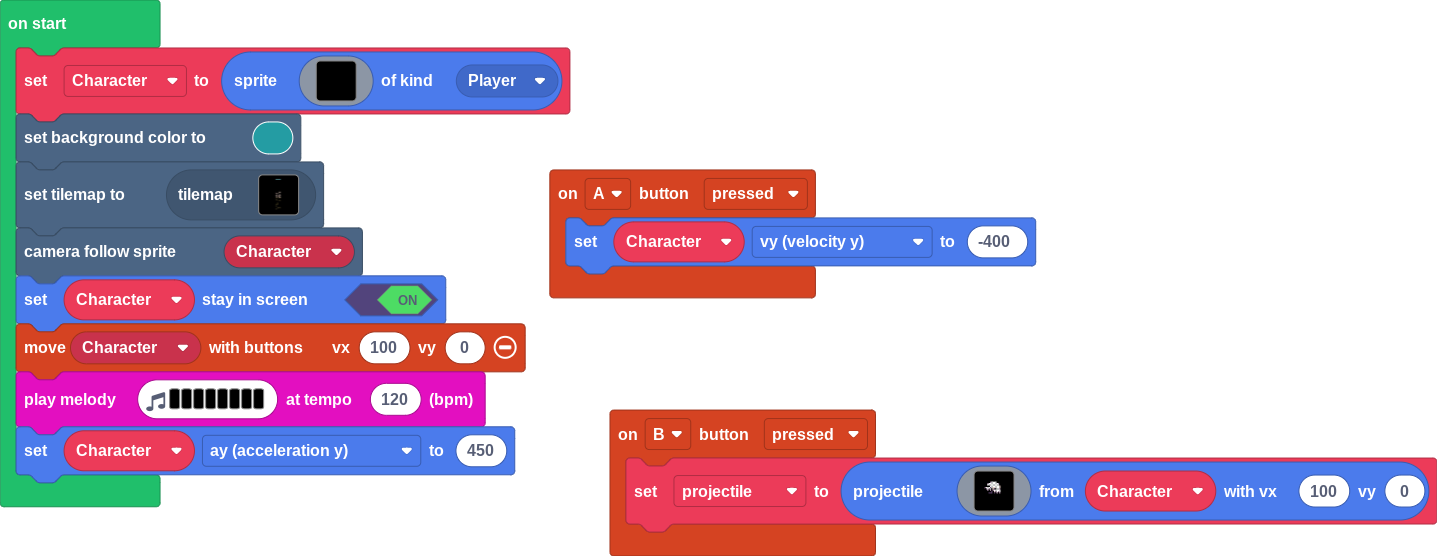
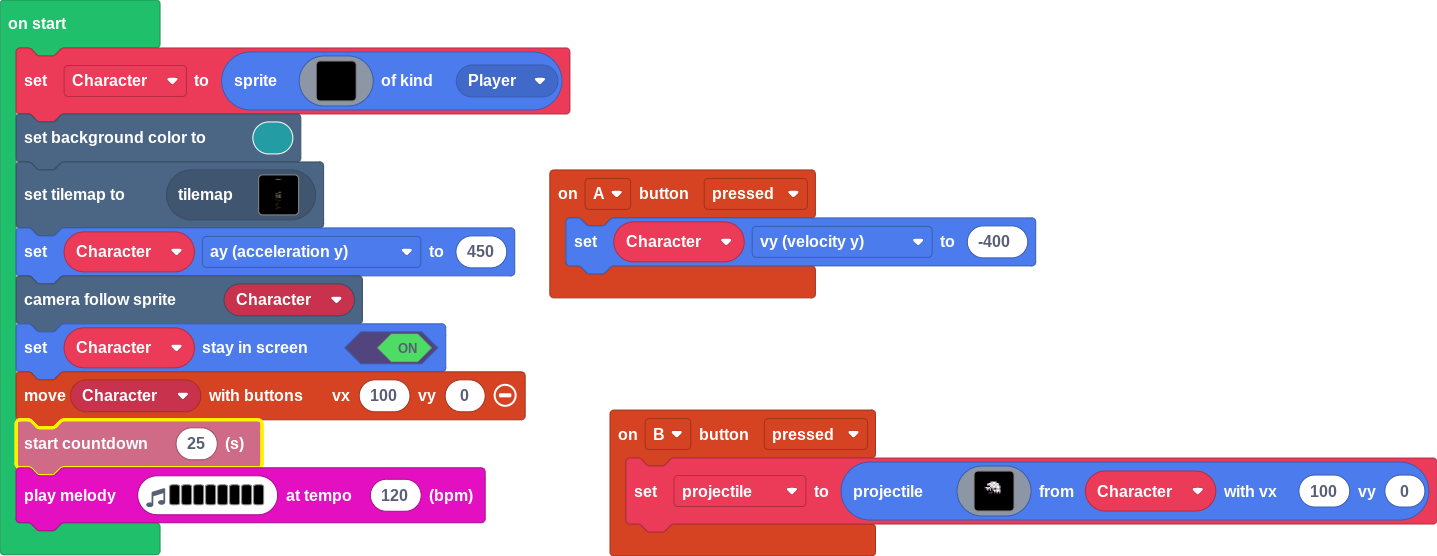
Update main.blocks, main.ts

Changed region(s): [[0.0, 0.3975, 0.3674, 1.0]]

diff --git a/main.ts b/main.ts
@@ -75,8 +75,9 @@ Character = sprites.create(img`
     `, SpriteKind.Player)
 scene.setBackgroundColor(6)
 tiles.setCurrentTilemap(tilemap`level1`)
+Character.ay = 450
 scene.cameraFollowSprite(Character)
 Character.setStayInScreen(true)
 controller.moveSprite(Character, 100, 0)
+info.startCountdown(25)
 music.playMelody("D G D B C E F D ", 120)
-Character.ay = 450
